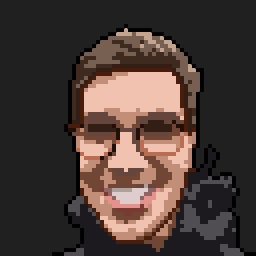
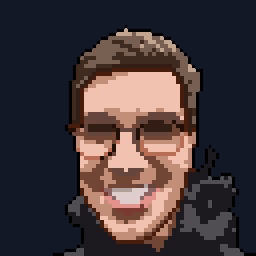
update

diff --git a/src/pages/index.tsx b/src/pages/index.tsx
@@ -25,7 +25,7 @@ export default function Home({projects}: any) {
       <div className="flex flex-col w-full max-w-screen-md mx-auto">
         <header className="py-24">
           <div className="flex space-x-4 items-center">
-            <div className="flex items-center justify-center flex-shrink-0 sm:w-auto w-16 rounded-full overflow-hidden">
+            <div className="flex items-center justify-center flex-shrink-0 sm:w-auto w-16 rounded-full overflow-hidden border-2 border-black/50">
               <Image
                 src={Me}
                 alt="Vojta Holik"
@@ -72,8 +72,8 @@ export default function Home({projects}: any) {
             </div>
           </div>
         </header>
-        <h3 className="pb-4 font-medium">
-          Projects I've collaborated on in the past ~year
+        <h3 className="pb-4 text-gray-300">
+          Projects I've collaborated on in the past ~year:
         </h3>
         <main className="grid sm:grid-cols-2 grid-cols-1 gap-5 w-full">
           {projects.map(({title, url, image}: Project) => {
@@ -83,7 +83,7 @@ export default function Home({projects}: any) {
                 target="_blank"
                 key={title}
                 rel="noopener noreferrer"
-                className="bg-black p-10 flex w-full items-center justify-center rounded-lg min-h-[200px] hover:scale-105 transition-all ease-in-out duration-200"
+                className="bg-black bg-opacity-30 hover:bg-opacity-50 p-10 flex w-full items-center justify-center rounded-lg min-h-[200px] hover:scale-105 transition-all ease-in-out duration-200"
                 onClick={() => {
                   track('clicked project url', {
                     action: 'clicked project url',

diff --git a/tailwind.config.js b/tailwind.config.js
@@ -1,21 +1,13 @@
 const defaultTheme = require('tailwindcss/defaultTheme')
-const colors = require('tailwindcss/colors')
 
 module.exports = {
-  content: [
-    './src/pages/**/*.tsx',
-    './src/pages/**/*.mdx',
-    './src/components/**/*.tsx',
-    './src/utils/**/*.ts',
-  ],
+  content: ['./src/**/*.tsx', './src/**/*.mdx'],
   theme: {
     extend: {
       fontFamily: {
         sans: ['Inter', ...defaultTheme.fontFamily.sans],
       },
-      colors: {
-        gray: colors.stone,
-      },
+
       typography: (theme) => ({
         lg: {
           css: {
